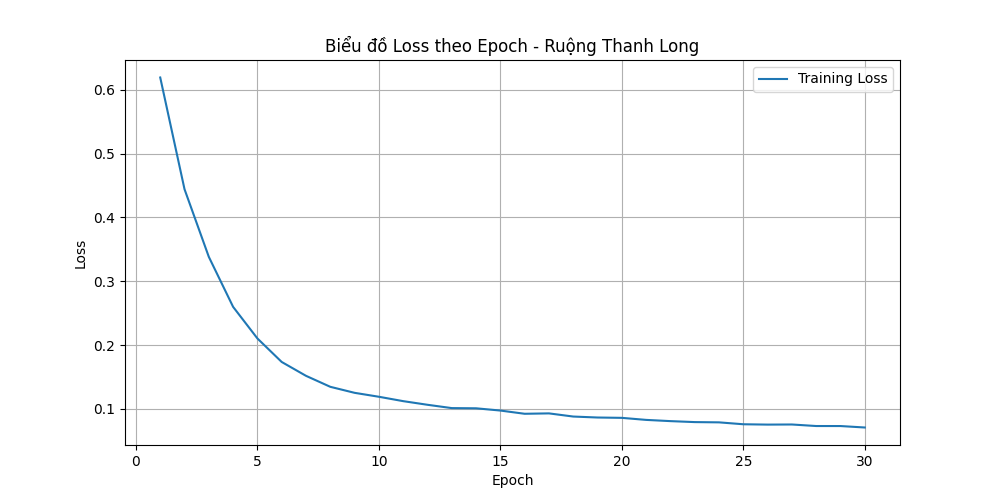
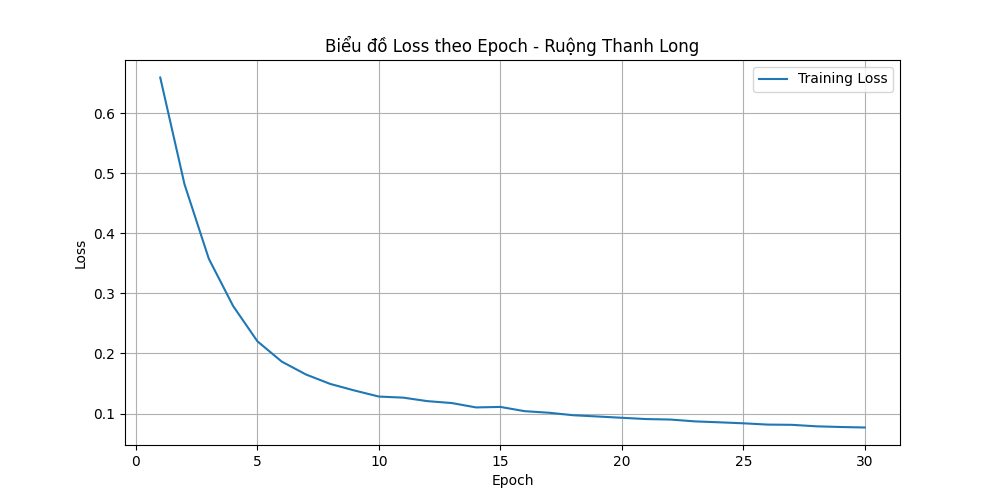
Update code

diff --git a/train.py b/train.py
@@ -69,6 +69,8 @@ LEARNING_RATE = 1e-4
 
 data_transforms = transforms.Compose([
     transforms.Resize((256, 256)),
+    transforms.RandomHorizontalFlip(p=0.5), # Lật ảnh giúp robot học được cả cua trái/phải
+    transforms.ColorJitter(brightness=0.2, contrast=0.2), # Chịu được nắng/bóng râm ruộng thanh long
     transforms.ToTensor(),
     transforms.Normalize(mean=[0.485, 0.456, 0.406], std=[0.229, 0.224, 0.225])
 ])
@@ -102,8 +104,11 @@ train_loader = DataLoader(train_ds, batch_size=BATCH_SIZE, shuffle=True)
 val_loader = DataLoader(val_ds, batch_size=BATCH_SIZE, shuffle=False)
 
 # 4. Khởi tạo Mô hình DeepLabV3
-model = models.segmentation.deeplabv3_resnet50(weights=models.segmentation.DeepLabV3_ResNet50_Weights.DEFAULT)
-model.classifier[4] = nn.Conv2d(256, 2, kernel_size=(1, 1)) # 2 lớp: Nền và Đường đi
+model = models.segmentation.deeplabv3_mobilenet_v3_large(
+    weights=models.segmentation.DeepLabV3_MobileNet_V3_Large_Weights.DEFAULT
+)
+classifier_in_channels = model.classifier[4].in_channels
+model.classifier[4] = nn.Conv2d(classifier_in_channels, 2,     kernel_size=(1, 1))
 model.to(device)
 
 # 5. Training
@@ -121,16 +126,23 @@ print("Bắt đầu huấn luyện với dữ liệu COCO...")
 
 train_losses = []
 val_losses = []
+<<<<<<< Updated upstream
 best_val_loss = float('inf')
 
 for epoch in range(EPOCHS):
     # --- TRAINING LOOP ---
+=======
+
+for epoch in range(EPOCHS):
+    # --- GIAI ĐOẠN TRAIN ---
+>>>>>>> Stashed changes
     model.train()
     total_train_loss = 0
     for imgs, masks in train_loader:
         imgs, masks = imgs.to(device), masks.to(device)
         
         optimizer.zero_grad()
+<<<<<<< Updated upstream
         
         # Sử dụng AMP để giảm VRAM và tăng tốc
         with torch.cuda.amp.autocast(enabled=device.type == 'cuda'):
@@ -155,10 +167,30 @@ for epoch in range(EPOCHS):
             with torch.cuda.amp.autocast(enabled=device.type == 'cuda'):
                 outputs = model(imgs)['out']
                 loss = criterion(outputs, masks)
+=======
+        outputs = model(imgs)['out']
+        loss = criterion(outputs, masks)
+        loss.backward()
+        optimizer.step()
+        total_train_loss += loss.item()
+    
+    avg_train_loss = total_train_loss / len(train_loader)
+    train_losses.append(avg_train_loss)
+
+    # --- GIAI ĐOẠN VALIDATION (KIỂM TRA) ---
+    model.eval() # Chuyển sang chế độ đánh giá
+    total_val_loss = 0
+    with torch.no_grad(): # Không tính gradient để tiết kiệm bộ nhớ
+        for imgs, masks in val_loader:
+            imgs, masks = imgs.to(device), masks.to(device)
+            outputs = model(imgs)['out']
+            loss = criterion(outputs, masks)
+>>>>>>> Stashed changes
             total_val_loss += loss.item()
             
     avg_val_loss = total_val_loss / len(val_loader)
     val_losses.append(avg_val_loss)
+<<<<<<< Updated upstream
     
     print(f"Epoch {epoch+1}/{EPOCHS}, Train Loss: {avg_train_loss:.4f}, Val Loss: {avg_val_loss:.4f}")
     
@@ -170,11 +202,16 @@ for epoch in range(EPOCHS):
         best_val_loss = avg_val_loss
         torch.save(model.state_dict(), "dragon_fruit_path_coco_best.pth")
         print(f"  --> Đã lưu mô hình tốt nhất mới (Val Loss: {best_val_loss:.4f})")
+=======
+
+    print(f"Epoch {epoch+1}: Train Loss: {avg_train_loss:.4f} | Val Loss: {avg_val_loss:.4f}")
+>>>>>>> Stashed changes
 
 # 6. Lưu mô hình epoch cuối
 torch.save(model.state_dict(), "dragon_fruit_path_coco_last.pth")
 print("Hoàn tất! Đã lưu mô hình epoch cuối thành công!")
 
+<<<<<<< Updated upstream
 # Vẽ biểu đồ Loss
 plt.figure(figsize=(10, 5))
 plt.plot(range(1, EPOCHS + 1), train_losses, label='Training Loss')
@@ -186,3 +223,34 @@ plt.legend()
 plt.grid(True)
 plt.savefig('loss_chart.png') # Lưu biểu đồ thành ảnh
 print("Đã lưu biểu đồ loss_chart.png")
+=======
+# Giả sử bạn đã lưu kết quả vào hai danh sách: train_losses và val_losses
+epochs_range = range(1, EPOCHS + 1)
+
+plt.figure(figsize=(12, 6))
+
+# 1. Vẽ đường Training Loss
+plt.plot(epochs_range, train_losses, 'b-', label='Training Loss', linewidth=2)
+
+# 2. Vẽ đường Validation Loss
+plt.plot(epochs_range, val_losses, 'r-', label='Validation Loss', linewidth=2)
+
+# Thêm các thông tin bổ trợ
+plt.title('Biểu đồ So sánh Loss - Nhận diện đường đi Thanh Long', fontsize=14)
+plt.xlabel('Epoch (Vòng lặp)', fontsize=12)
+plt.ylabel('Loss (Sai số)', fontsize=12)
+plt.legend(loc='upper right') # Hiển thị chú thích
+plt.grid(True, linestyle='--', alpha=0.7)
+
+# Đánh dấu điểm Val Loss thấp nhất (điểm mô hình tốt nhất)
+min_val_loss_epoch = val_losses.index(min(val_losses)) + 1
+plt.annotate(f'Best Model Here', 
+             xy=(min_val_loss_epoch, min(val_losses)), 
+             xytext=(min_val_loss_epoch + 2, min(val_losses) + 0.1),
+             arrowprops=dict(facecolor='black', shrink=0.05),
+             fontsize=10)
+
+plt.tight_layout()
+plt.savefig('ovverfitting_check_chart.png') # Lưu ảnh để xem lại
+plt.show()
+>>>>>>> Stashed changes

diff --git a/test.py b/test.py
@@ -1,4 +1,5 @@
 import torch
+import torch.nn as nn
 import cv2
 import numpy as np
 import os
@@ -9,6 +10,7 @@ from PIL import Image
 device = torch.device("cuda" if torch.cuda.is_available() else "cpu")
 num_classes = 2 
 
+<<<<<<< Updated upstream
 model = models.segmentation.deeplabv3_resnet50(weights=models.segmentation.DeepLabV3_ResNet50_Weights.DEFAULT)
 model.classifier[4] = torch.nn.Conv2d(256, num_classes, kernel_size=(1, 1))
 
@@ -25,6 +27,12 @@ except FileNotFoundError:
     print("Lỗi: Không tìm thấy file model. Vui lòng chạy train.py trước.")
     exit(1)
 
+=======
+model = models.segmentation.deeplabv3_mobilenet_v3_large(weights='DEFAULT')
+classifier_in_channels = model.classifier[4].in_channels
+model.classifier[4] = nn.Conv2d(classifier_in_channels, 2, kernel_size=(1, 1))
+model.load_state_dict(torch.load("dragon_fruit_path_coco.pth")) 
+>>>>>>> Stashed changes
 model.to(device)
 
 # Sử dụng FP16 (Half precision) nếu có CUDA để tăng tốc độ Inference
